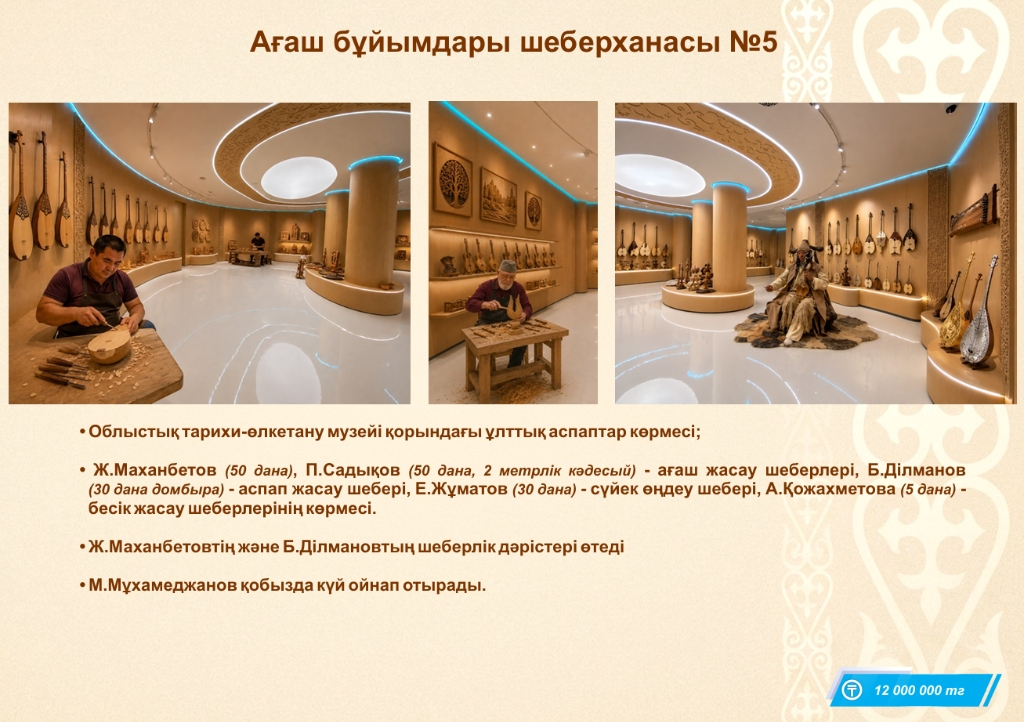
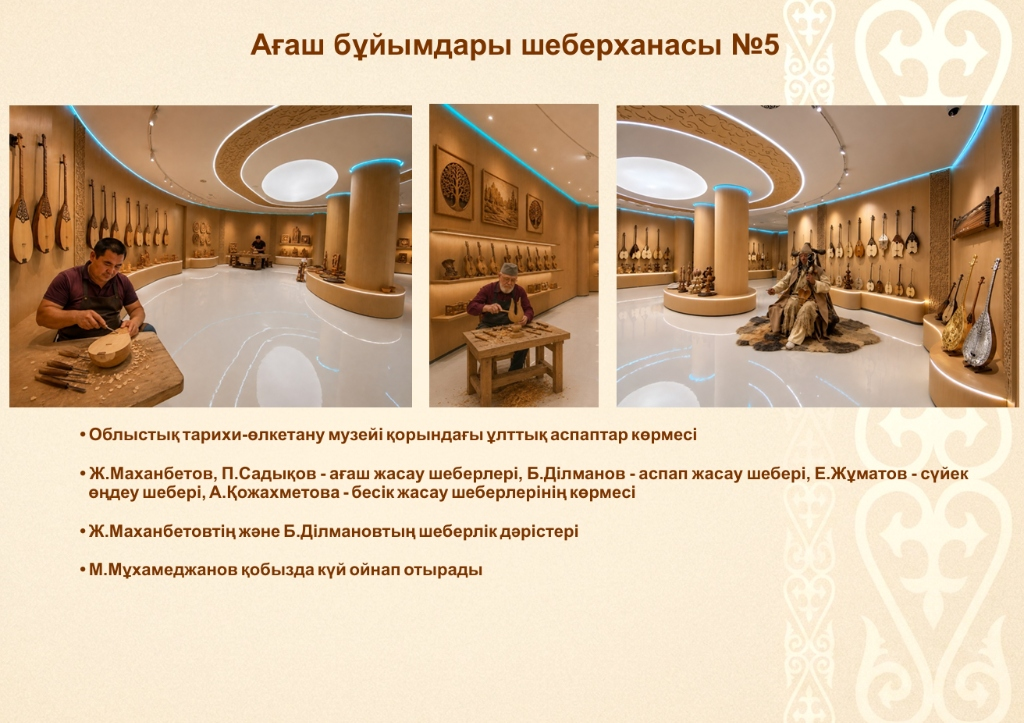
Update zones 2-11 slides and descriptions

diff --git a/zone.html b/zone.html
@@ -320,60 +320,54 @@
             },
             2: {
                 title: "Ішкі кіреберіс №2",
-                desc: "Қонақтарды қарсы алу, тіркеу және ақпарат беру орталық аймағы.",
+                desc: "Креативті индустрия логотипі, қобыз макеті және аймақтық танымал кәсіпорындар тулары.",
                 images: ["images/zone2.jpg"],
                 details: [
-                    "Ішкі кіреберіс аймақта креативті индустрия логотипі және қобыз макеті орналастырылады.",
-                    "Сол жақ қапталына Қызылорда облысындағы танымал кәсіпорындардың туы қойылады (6 дана: Абзал и К, Арал Тұз, Казатомпром, Orda Glass, Dalatex т.б.).",
-                    "«QAZAQ CREATIVE» мен «QYZYLORDA» концептуалды бренд стенасы."
+                    "Ішкі кіреберіс аймақта креативті индустрия логотипі және қобыз макеті",
+                    "Сол жақ қапталына Қызылорда облысындағы танымал кәсіпорындардың туы"
                 ],
                 budget: null
             },
             3: {
                 title: "Қазақ анимация залы №3",
-                desc: "Отандық мультипликация туындылары мен ұлттық анимация жобаларының интерактивті залы.",
+                desc: "«Тамырдан туындыға: Қызылорда облысының креативті кеңістігі» бейнеролигінің көрсетілімі.",
                 images: ["images/zone3.jpg"],
                 details: [
-                    "«Тамырдан туындыға: Қызылорда облысының креативті кеңістігі» бейнеролигінің (ұзақтығы 3:45 минут) көрсетілімі.",
-                    "Үлкен LED экран және сандық ақпараттық трибуналар.",
-                    "Аниматорлар мен келген қонақтарға арналған презентациялық аймақ."
+                    "Қазақ анимация залы - «Тамырдан туындыға: Қызылорда облысының креативті кеңістігі» бейнеролигінің көрсетілімі."
                 ],
                 budget: null
             },
             4: {
                 title: "Ұлттық зергерлік бұйымдар залы №4",
-                desc: "Қазақтың дәстүрлі күміс, алтын зергерлік өнер экспозициясы мен шеберлік бөлмесі.",
+                desc: "Қазақтың дәстүрлі зергерлік өнер экспозициясы мен шеберлік сағаты.",
                 images: ["images/zone4.jpg"],
                 details: [
-                    "Облысқа танымал кәсіпкер, қолөнер шебері Б.Жақыповтың туындыларынан сатылым алаңы.",
-                    "Зергер Б.Жақыповтың бұйым жасаудан шеберлік сағаты (арнайы шыны бөлмеде).",
-                    "Облыстық тарихи-өлкетану музейі қорындағы жаңғыртылған зергерлік бұйымдар көрмесі.",
-                    "Бекзат Жақыпов: 40 дана бұйым | Облыстық тарихи-өлкетану музейі: 80 дана бұйым мен картина."
+                    "Облысқа танымал кәсіпкер, қолөнер шебері Б.Жақыповтың туындыларынан сатылым алаңы",
+                    "Зергер Б.Жақыповтың бұйым жасаудан шеберлік сағаты",
+                    "Облыстық тарихи-өлкетану музейі қорындағы жаңғыртылған зергерлік бұйымдардан көрме"
                 ],
-                budget: "11 850 000 тг"
+                budget: null
             },
             5: {
                 title: "Ағаш бұйымдары шеберханасы №5",
                 desc: "Ағаштан жасалған бұйымдар, ұлттық музыкалық аспаптар көрмесі мен шеберлік дәрістері.",
                 images: ["images/zone5.jpg"],
                 details: [
-                    "Облыстық тарихи-өлкетану музейі қорындағы ұлттық аспаптар көрмесі.",
-                    "Шеберлер туындысы: Ж.Маханбетов (50 дана), П.Садықов (50 дана, 2 метрлік кәдесый), Б.Ділманов (30 дана домбыра), Е.Жұматов (30 дана), А.Қожахметова (5 дана бесік).",
-                    "Ж.Маханбетов пен Б.Ділмановтың шеберлік дәрістері өткізіледі.",
-                    "М.Мұхамеджанов қобызда күй ойнап, шеберхана атмосферасын қалыптастырады."
+                    "Облыстық тарихи-өлкетану музейі қорындағы ұлттық аспаптар көрмесі",
+                    "Ж.Маханбетов, П.Садықов - ағаш жасау шеберлері, Б.Ділманов - аспап жасау шебері, Е.Жұматов - сүйек өңдеу шебері, А.Қожахметова - бесік жасау шеберлерінің көрмесі",
+                    "Ж.Маханбетовтің және Б.Ділмановтың шеберлік дәрістері",
+                    "М.Мұхамеджанов қобызда күй ойнап отырады"
                 ],
-                budget: "12 000 000 тг"
+                budget: null
             },
             6: {
                 title: "AI және цифрлық даму залы №6",
-                desc: "Жасанды интеллект, робототехника және заманауи IT жобалар залы.",
+                desc: "«Qyzylorda Hub» маркетплейсінің таныстырылымы, телеарна жобалары және питч сессия.",
                 images: ["images/zone6.jpg"],
                 details: [
-                    "Залда 10 дана ЛЭД панель орналасады.",
-                    "Бауырсақ ұстаған роботтың қонақтарды күтіп алуы.",
-                    "«Qyzylorda Hub»-тың қолөнер шеберлеріне арналған маркетплейстің таныстырылымы.",
-                    "«Qyzylorda» телеарнасы креативті жобаларының көрсетілімі.",
-                    "«Идеядан нарыққа дейін....» питч сессиясын өткізу."
+                    "«Qyzylorda Hub»-тың қолөнер шеберлеріне арналған маркетплейстің таныстырылымы",
+                    "«Qyzylorda» телеарнасы креативті жобаларының көрсетілімі",
+                    "«Идеядан нарыққа дейін....» питч сессия"
                 ],
                 budget: null
             },
@@ -382,53 +376,51 @@
                 desc: "Орталық концерттік сахна, Сыр өңірінің тұлғалар көрмесі және музыкалық шеберлік сабақтары.",
                 images: ["images/zone7.jpg"],
                 details: [
-                    "Терезе жақ бетіне Сыр өңірінен шыққан танымал тұлғалардың пайдаланған заттарынан, дәстүрлі жыр мектептері өкілдерінің шығармашылығынан көрме (М.Көкенов, Р.Бағланова т.б.).",
-                    "Филармония әртістерінің концерті және бір мезетте 12 аспапта ойнайтын Р.Бурабайдың шеберлік дәрісі."
+                    "Терезе жақ бетіне Сыр өңірінен шыққан танымал тұлғалардың пайдаланған заттарынан, дәстүрлі жыр мектептері өкілдерінің шығармашылығынан көрме",
+                    "Филармония әртістерінің концерті және бір мезетте 12 аспапта ойнайтын Р.Бурабайдың шеберлік дәрісі"
                 ],
                 budget: null
             },
             8: {
                 title: "Дәстүрлі кілемдер залы №8",
-                desc: "Қазақтың ұлттық текемет, түкті кілем, алаша және басқұр өнерінің эксклюзивті көрмесі.",
+                desc: "Қолөнер шебері Қ.Ілиясованың «Түкті кілем» мектебінің коллекциясы және Д.Тойшыбайдың заманауи кілемдерінің топтамасынан сатылым көрме.",
                 images: ["images/zone8.jpg"],
                 details: [
-                    "Қолөнер шебері Қ.Ілиясованың «Түкті кілем» мектебінің коллекциясы және Д.Тойшыбайдың заманауи кілемдерінің топтамасына сатылым көрмесі.",
-                    "Шеберлік дәрісі: Кілем шебері Қ.Ілиясова түкті кілем тоқу әдісін көрсетеді.",
-                    "Шеберлік дәрісі: Қолөнер шебері М.Қалжанова жойылып бара жатқан алаша, басқұр тоқу әдісі.",
-                    "Шеберлік дәрісі: Қолөнер шебері А.Жұмағұлова «Өмір иірімдері» тұмарын тоқу әдісін көрсетеді."
+                    "Қолөнер шебері Қ.Ілиясованың «Түкті кілем» мектебінің коллекциясы және Д.Тойшыбайдың заманауи кілемдерінің топтамасынан сатылым көрме",
+                    "Шеберлік дәрісі: Кілем шебері Қ.Ілиясова түкті кілем тоқу әдісі",
+                    "Шеберлік дәрісі: Қолөнер шебері М.Қалжанова жойылып бара жатқан алаша, басқұр тоқу әдісі",
+                    "Шеберлік дәрісі: Қолөнер шебері А.Жұмағұлова «Өмір иірімдері» тұмарын тоқу әдісі"
                 ],
-                budget: "10 000 000 тг (40 дана)"
+                budget: null
             },
             9: {
                 title: "Ұлттық иллюстрация және арт аймақ №9",
-                desc: "Заманауи бейнелеу өнері, текстиль, әшекей бұйымдар және картиналар сатылым галереясы.",
+                desc: "Облыстық көркемсурет галереясы қоры, заманауи текстиль мен әшекей бұйымдарының көрмесі.",
                 images: ["images/zone9_1.jpg", "images/zone9_2.jpg"],
                 details: [
-                    "Облыстық көркемсурет галереясы қорынан және Сыр суретшілерінің туындыларынан сатылым көрмесі.",
-                    "Креативті қолөнер шеберлерінің текстиль және әшекей бұйымдары: Қ.Ілиясова (5 дана), Д.Тойшыбай (30 дана), Ү.Мауытова (5 дана), А.Әлайдарова (40 дана), М.Қалжанова (30 дана), Л.Шілдебаева (15 дана), М.Қасқырбай (10 дана), Б.Альшинбаева (10 дана), Ж.Шораев (15 дана), Д.Кеңесбай (20 дана), Г.Құдайбергенова (20 дана) т.б.",
-                    "Д.Тойшыбайдың суретті шыныға сындырып салу әдісімен танысу (сыртта, алаңда отырады).",
-                    "Қазақстанның архитектуралық нысандары (Бәйтерек, Ақорда т.б.) мен тарихи иллюстрациялар экспозициясы."
+                    "Облыстық көркемсурет галереясы қорынан және Сыр суретшілерінің туындыларынан сатылым көрмесі",
+                    "Облыстағы креативті қолөнер шеберлерінің заманауи нақыштағы текстиль және әшекей бұйымдарының сатылым көрмесі",
+                    "Д.Тойшыбайдың суретті шыныға сындырып салу әдісі",
+                    "Қазақстанның архитектуралық нысандары (Бәйтерек, Ақорда, Байқоңыр ғарыш айлағы т.б.) мен тарихи иллюстрациялар экспозициясы"
                 ],
-                budget: "20 000 000 тг (250 дана)"
+                budget: null
             },
             10: {
                 title: "Ұлттық киімдер залы №10",
-                desc: "Этно-сән дефилесі, қазақи ұлттық киімдер, «Сыр style collection» және «Қайсар» формасы экспозициясы.",
+                desc: "Облысқа танымал кәсіпкер, қолөнер шеберлерінің туындыларынан сатылым және сән көрсетілімі.",
                 images: ["images/zone10.jpg"],
                 details: [
-                    "Облысқа танымал кәсіпкер, қолөнер шеберлерінің туындыларынан сатылым алаңдары (Д.Марлен 10 дана, Ә.Елешова 6 дана, Қ.Ілиясова 5 дана, А.Әлайдарова 5 дана, А.Әбди 20 дана, Ә.Аймұратова 10 дана).",
-                    "«Қайсар» футбол клубының ресми формасы (10 дана) және «Далатекс» ЖШС-нің коллекциялары (12 дана).",
-                    "А.Жұмағұлованың «Сыр style collection» киімдерінен топтама, дизайнерлер Дана Марлен мен Әсел Елешованың сатылым және сән көрсетілімі."
+                    "Ұлттық киімдер залы – облысқа танымал кәсіпкер, қолөнер шеберлерінің туындыларынан сатылым алаңдарын ұйымдастыру",
+                    "А. Жұмағұлованың «Сыр style collection» киімдерінен топтама, дизайнерлер Дана Марлен, Әсел Елешованың арнайы киімдер коллекцияларынан сатылым және сән көрсетілімі"
                 ],
-                budget: "16 500 000 тг (50 дана)"
+                budget: null
             },
             11: {
                 title: "Қызылорда Talks-қа арнайы алаң №11",
-                desc: "Танымал тұлғалармен сұхбат, бейне түсірілім және креативті индустрия трендтері туралы ашық диалог студиясы.",
+                desc: "Танымал тұлғалармен креативті индустрияның трендтері мен жаңа мүмкіндіктері туралы ашық диалог.",
                 images: ["images/zone11.jpg"],
                 details: [
-                    "Танымал тұлғалармен креативті индустрияның трендтері мен жаңа мүмкіндіктері туралы ашық диалог пен сұхбат аймағы.",
-                    "«Kyzylorda Talks» ресми брендтік сұхбат және бейне түсірілім студиясы."
+                    "Танымал тұлғалармен креативті индустрияның трендтері мен жаңа мүмкіндіктері туралы ашық диалог"
                 ],
                 budget: null
             }

diff --git a/index.html b/index.html
@@ -453,7 +453,7 @@
                                 <h3 class="font-bold text-[#4A3515] text-xs sm:text-sm">№2 Ішкі кіреберіс</h3>
                                 <span class="text-[9px] sm:text-[10px] bg-[#059669]/15 text-[#059669] px-1.5 py-0.5 rounded font-bold">Фото бар</span>
                             </div>
-                            <p class="text-[11px] sm:text-xs text-[#4A3515]/70 mt-0.5">Қобыз макеті мен кәсіпорындар тулары</p>
+                            <p class="text-[11px] sm:text-xs text-[#4A3515]/70 mt-0.5">Креативті индустрия логотипі, қобыз макеті және тулар</p>
                         </div>
                     </div>
 
@@ -475,7 +475,7 @@
                                 <h3 class="font-bold text-[#4A3515] text-xs sm:text-sm">№4 Зергерлік бұйымдар залы</h3>
                                 <span class="text-[9px] sm:text-[10px] bg-[#059669]/15 text-[#059669] px-1.5 py-0.5 rounded font-bold">Фото бар</span>
                             </div>
-                            <p class="text-[11px] sm:text-xs text-[#4A3515]/70 mt-0.5">Б.Жақыпов зергерлік шеберханасы мен көрмесі</p>
+                            <p class="text-[11px] sm:text-xs text-[#4A3515]/70 mt-0.5">Б.Жақыпов шеберлік сағаты мен музей көрмесі</p>
                         </div>
                     </div>
 
@@ -497,7 +497,7 @@
                                 <h3 class="font-bold text-[#4A3515] text-xs sm:text-sm">№6 AI және цифрлық даму залы</h3>
                                 <span class="text-[9px] sm:text-[10px] bg-[#059669]/15 text-[#059669] px-1.5 py-0.5 rounded font-bold">Фото бар</span>
                             </div>
-                            <p class="text-[11px] sm:text-xs text-[#4A3515]/70 mt-0.5">10 ЛЭД панель, Робот және Qyzylorda Hub</p>
+                            <p class="text-[11px] sm:text-xs text-[#4A3515]/70 mt-0.5">Qyzylorda Hub маркетплейсі мен питч сессия</p>
                         </div>
                     </div>
 
@@ -542,7 +542,7 @@
                                 <h3 class="font-bold text-[#4A3515] text-xs sm:text-sm">№10 Ұлттық киімдер залы</h3>
                                 <span class="text-[9px] sm:text-[10px] bg-[#059669]/15 text-[#059669] px-1.5 py-0.5 rounded font-bold">Фото бар</span>
                             </div>
-                            <p class="text-[11px] sm:text-xs text-[#4A3515]/70 mt-0.5">Сән дефилесі, «Сыр style collection» және «Қайсар» формасы</p>
+                            <p class="text-[11px] sm:text-xs text-[#4A3515]/70 mt-0.5">«Сыр style collection», сатылым және сән көрсетілімі</p>
                         </div>
                     </div>
 
